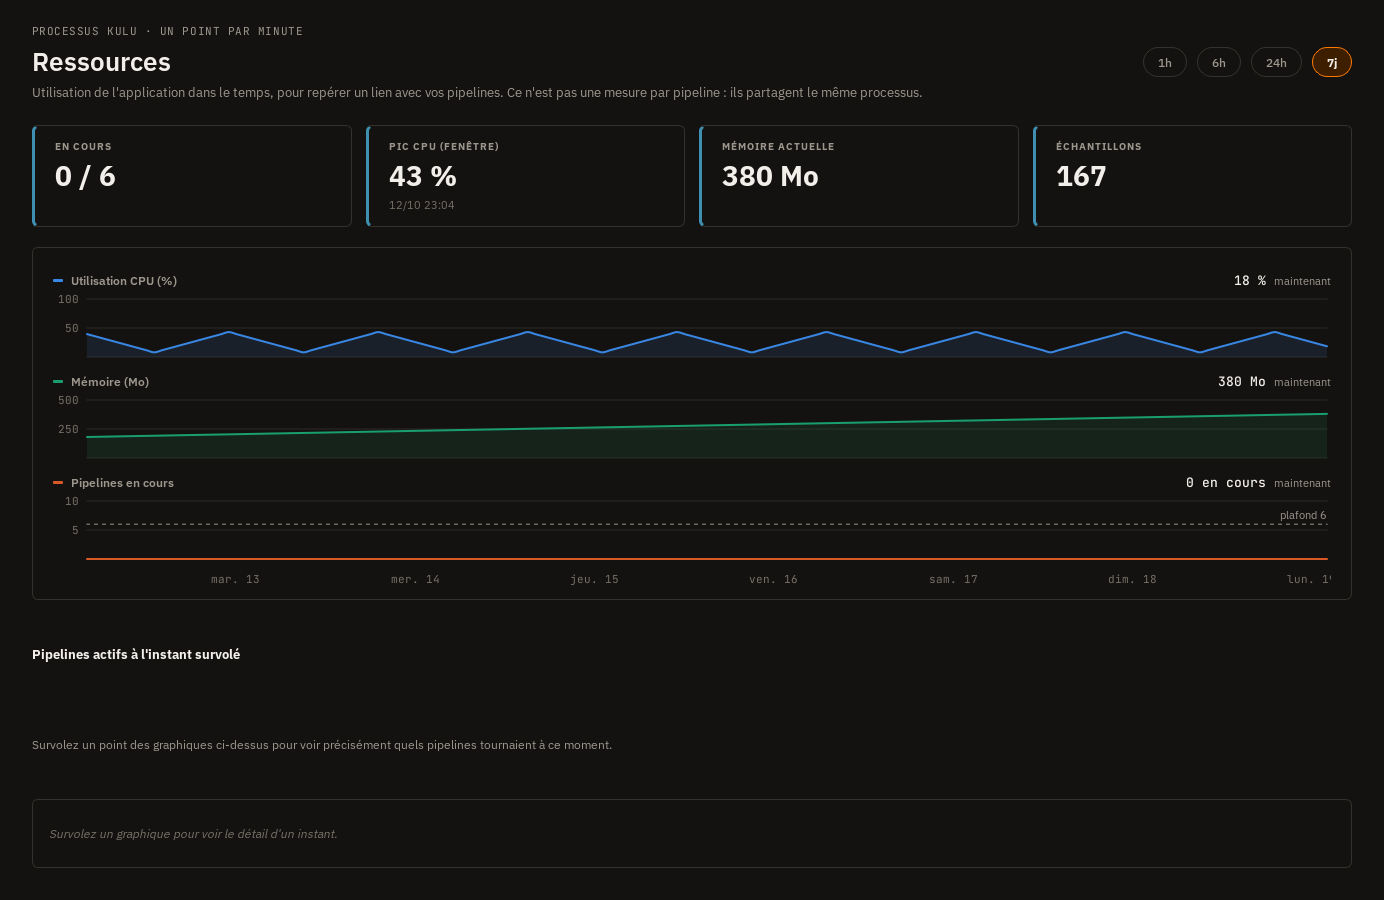
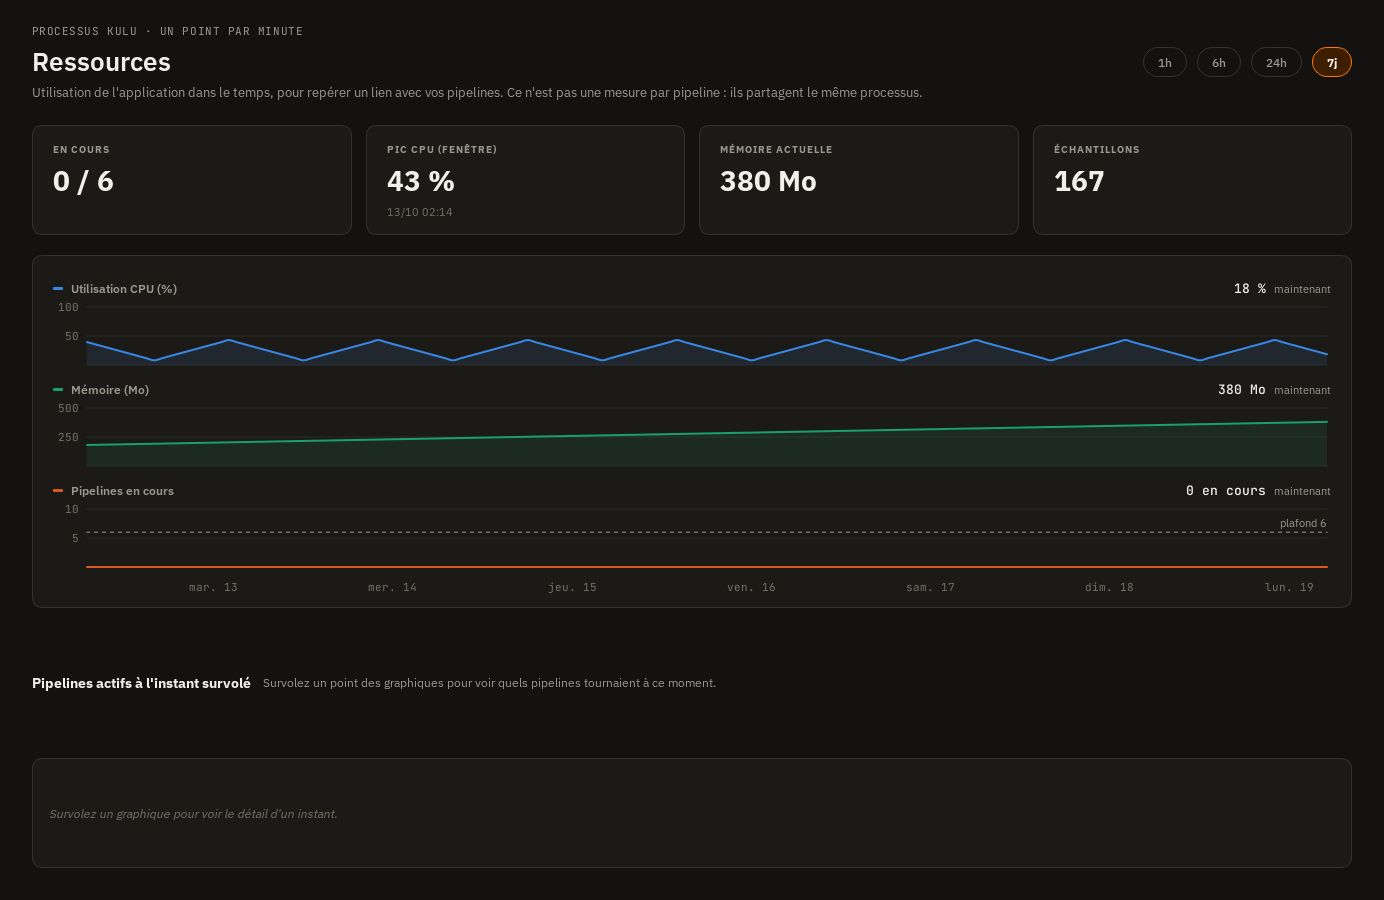
fix(lot-A-ressources): fond des cartes + en-tete de correlation (signale apres la PR)
Les 4 cartes de stats et les 2 encarts (graphiques, correlation) gardaient le
style par defaut de StatCard/QFrame#card (widgets.py::GLOBAL_STYLE) - fond
bg_card, rayon 6px, liseré d'accent bleu - au lieu du fond bg_panel, rayon
10px, bordure unie sans accent que montre Ressources.html sur ces 6 blocs.
Signale par une capture de l'app reelle montrant le mauvais fond. Corrige en
surchargeant le style (nouvelle fonction _card_style(), scopee QFrame#card,
pas une regle nue) specifiquement sur ces instances, sans toucher au
QFrame#card global ni a StatCard - leur rendu par defaut reste inchange
partout ailleurs.

Meme relecture : l'en-tete du panneau de correlation ("Pipelines actifs a
l'instant survole" + sa description) etait empile sur deux lignes alors que
la maquette les aligne sur une seule (align-items: baseline) - corrige,
texte de la description aussi repris plus fidelement.

diff --git a/ui/main_window/resources_view.py b/ui/main_window/resources_view.py
@@ -46,6 +46,18 @@ def _interval_label(seconds: int) -> str:
         return "MINUTE" if minutes == 1 else f"{minutes} MINUTES"
     return f"{seconds} SECONDES"
 
+def _card_style() -> str:
+    """Fond/bordure/rayon des 4 cartes de stats et des 2 encarts (graphiques, corrélation) —
+    Ressources.html : bg_panel/border/10px, pas bg_card/6px (le `QFrame#card` global de
+    widgets.py, conçu pour d'autres écrans) ni le liseré d'accent bleu par défaut de StatCard,
+    absent de cette maquette. Sélecteur d'ID (QFrame#card), pas une règle nue — remplace celui
+    posé par StatCard.__init__ sans en changer la portée (REGLES.md section 3)."""
+    return (
+        f"QFrame#card {{ background: {COLORS['bg_panel']}; border: 1px solid {COLORS['border']}; "
+        f"border-radius: 10px; }}"
+    )
+
+
 _HINT_HOVER = "Survolez un graphique pour voir le détail d'un instant."
 _HINT_NO_PIPELINE = "Aucun pipeline en cours à cet instant."
 
@@ -426,10 +438,17 @@ class ResourcesView(QWidget):
         self._card_memory    = StatCard("Mémoire actuelle", "—")
         self._card_samples   = StatCard("Échantillons", "—")
         for card in (self._card_running, self._card_peak_cpu, self._card_memory, self._card_samples):
+            # Remplace le style par défaut de StatCard (fond bg_card, rayon 6px, liseré
+            # d'accent bleu) par celui de Ressources.html (fond bg_panel, rayon 10px, bordure
+            # unie sans accent) — StatCard.setStyleSheet() dans son __init__ pose déjà une règle
+            # scopée QFrame#card, remplacée ici par une autre tout aussi scopée, pas une règle
+            # nue (REGLES.md section 3).
+            card.setStyleSheet(_card_style())
             stats_row.addWidget(card)
         body.addLayout(stats_row)
 
         self._charts_frame = charts_frame = QFrame(); charts_frame.setObjectName("card")
+        charts_frame.setStyleSheet(_card_style())
         charts_layout = QVBoxLayout(charts_frame)
         charts_layout.setContentsMargins(20, 18, 20, 10)
         charts_layout.setSpacing(4)
@@ -455,16 +474,24 @@ class ResourcesView(QWidget):
 
         body.addWidget(charts_frame)
 
-        self._correlate_title = correlate_title = QLabel("Pipelines actifs à l'instant survolé")
-        correlate_title.setStyleSheet(f"font-size: 13px; font-weight: 700; color: {COLORS['text_main']};")
-        body.addWidget(correlate_title)
-        self._correlate_sub = correlate_sub = QLabel(
-            "Survolez un point des graphiques ci-dessus pour voir précisément quels pipelines "
-            "tournaient à ce moment."
-        )
-        correlate_sub.setWordWrap(True)
-        correlate_sub.setStyleSheet(f"color: {COLORS['text_dim']}; font-size: 11.5px;")
-        body.addWidget(correlate_sub)
+        # Titre + description sur la MÊME ligne (align-items: baseline, Ressources.html) — pas
+        # deux lignes empilées comme avant ce lot (écart signalé après la première capture).
+        self._correlate_header = correlate_header = QWidget()
+        correlate_header_layout = QHBoxLayout(correlate_header)
+        correlate_header_layout.setContentsMargins(0, 0, 0, 0)
+        correlate_header_layout.setSpacing(12)
+        correlate_title = QLabel("Pipelines actifs à l'instant survolé")
+        correlate_title.setStyleSheet(
+            f"font-size: 13.5px; font-weight: 700; color: {COLORS['text_main']}; "
+            f"background: transparent;")
+        correlate_header_layout.addWidget(correlate_title, alignment=Qt.AlignVCenter)
+        correlate_sub = QLabel(
+            "Survolez un point des graphiques pour voir quels pipelines tournaient à ce moment.")
+        correlate_sub.setStyleSheet(
+            f"color: {COLORS['text_dim']}; font-size: 12px; background: transparent;")
+        correlate_header_layout.addWidget(correlate_sub, alignment=Qt.AlignVCenter)
+        correlate_header_layout.addStretch()
+        body.addWidget(correlate_header)
 
         # Widgets construits UNE SEULE FOIS et toujours gardés dans le layout, jamais retirés/
         # recréés — seule leur visibilité/texte change. Un précédent essai qui les ré-ajoutait
@@ -474,6 +501,7 @@ class ResourcesView(QWidget):
         # en usage réel ("Internal C++ object already deleted"). Seuls les chips (nombre variable,
         # eux vraiment jetables) sont recréés à chaque survol, dans leur propre sous-layout dédié.
         self._correlate_panel = QFrame(); self._correlate_panel.setObjectName("card")
+        self._correlate_panel.setStyleSheet(_card_style())
         self._correlate_layout = QVBoxLayout(self._correlate_panel)
         self._correlate_layout.setContentsMargins(16, 16, 16, 16)
         self._correlate_layout.setSpacing(8)
@@ -578,8 +606,7 @@ class ResourcesView(QWidget):
         # (toujours visibles, à 0/—/0 % le cas échéant — Ressources-vide.html).
         has_samples = bool(self._samples)
         self._charts_frame.setVisible(has_samples)
-        self._correlate_title.setVisible(has_samples)
-        self._correlate_sub.setVisible(has_samples)
+        self._correlate_header.setVisible(has_samples)
         self._correlate_panel.setVisible(has_samples)
         self._empty_state.setVisible(not has_samples)
         self._empty_footer_hint.setVisible(not has_samples)

diff --git a/tests/test_resources_view.py b/tests/test_resources_view.py
@@ -441,3 +441,27 @@ def test_resources_view_hides_empty_state_once_a_sample_exists(qapp, test_db):
     assert view._empty_footer_hint.isHidden()
     assert not view._charts_frame.isHidden()
     assert not view._correlate_panel.isHidden()
+
+
+# ── Fond des cartes (signalé par l'utilisateur après la PR) ────────────────
+
+def test_resources_view_cards_use_the_maquette_background_not_the_shared_default(qapp, test_db):
+    """Régression : StatCard pose par défaut (ui/main_window/widgets.py) un fond bg_card, un
+    rayon de 6px et un liseré d'accent bleu — Ressources.html veut un fond bg_panel, un rayon de
+    10px et une bordure unie sans accent sur les 4 cartes ET les 2 encarts (graphiques,
+    corrélation). Signalé par une capture d'écran de l'app réelle montrant le mauvais fond."""
+    from ui.main_window.resources_view import ResourcesView, _card_style
+    from ui.styles import COLORS
+
+    view = ResourcesView()
+    style = _card_style()
+
+    assert COLORS["bg_panel"] in style
+    assert "border-radius: 10px" in style
+    assert COLORS["bg_card"] not in style   # le fond par défaut de StatCard, pas celui voulu ici
+
+    for widget in (
+        view._card_running, view._card_peak_cpu, view._card_memory, view._card_samples,
+        view._charts_frame, view._correlate_panel,
+    ):
+        assert widget.styleSheet() == style

diff --git a/docs/refonte/impact/a-ressources.md b/docs/refonte/impact/a-ressources.md
@@ -86,3 +86,16 @@ des commits de ce lot, aucune migration à défaire.
    démarrage) : présent dans `manquements.md` mais absent des tableaux Lot A/B/C de la fiche
    Ressources elle-même — par la règle T7 (`DECISIONS.md`), non traité ici, signalé dans la PR
    section « Hors périmètre repéré ».
+5. **Fond des cartes (corrigé après relecture utilisateur)** : la première version de la PR
+   laissait les 4 cartes de stats et les 2 encarts (graphiques, corrélation) avec le style par
+   défaut de `StatCard`/`QFrame#card` (`widgets.py::GLOBAL_STYLE`) — fond `bg_card`, rayon 6px,
+   liseré d'accent bleu — au lieu du fond `bg_panel`, rayon 10px, bordure unie sans accent que
+   montre `Ressources.html` sur ces 6 blocs. Signalé par une capture de l'app réelle. Corrigé en
+   surchargeant le style (scopé `QFrame#card`, pas une règle nue) spécifiquement sur ces
+   instances, sans toucher au `QFrame#card` global ni à `StatCard` (dont le rendu par défaut
+   reste inchangé pour tous les autres écrans qui l'utilisent). Même relecture : l'en-tête du
+   panneau de corrélation (« Pipelines actifs à l'instant survolé » + sa description) était
+   empilé sur deux lignes alors que la maquette les aligne sur une seule ligne
+   (`align-items: baseline`) — corrigé, texte de la description aussi repris plus fidèlement
+   (« Survolez un point des graphiques pour voir quels pipelines tournaient à ce moment. »,
+   sans les ajouts « ci-dessus »/« précisément » absents de la maquette).
